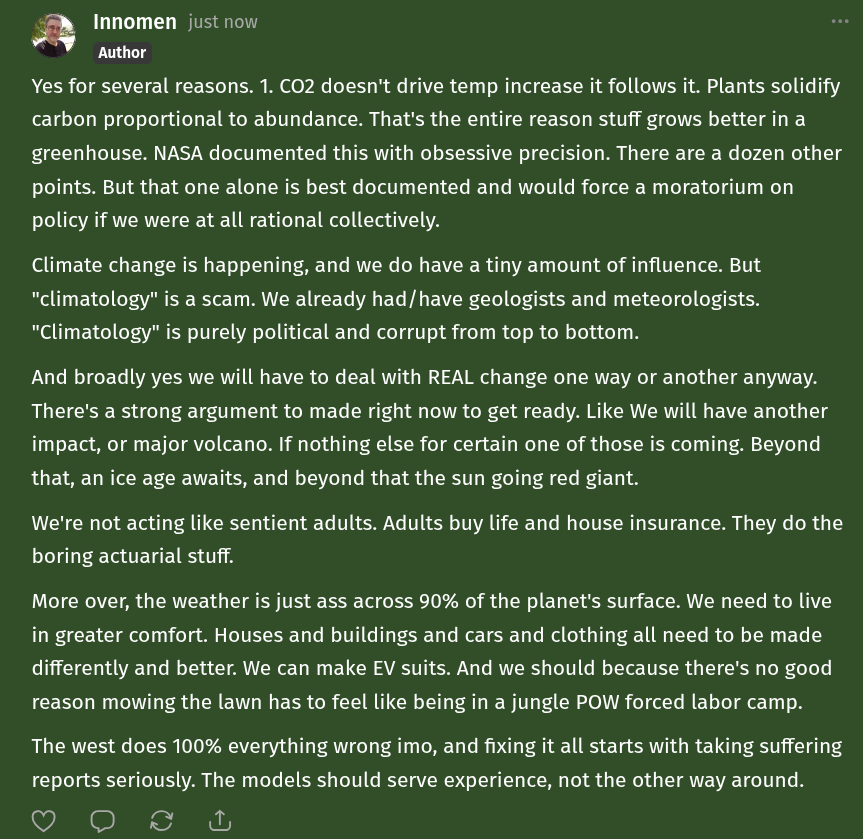
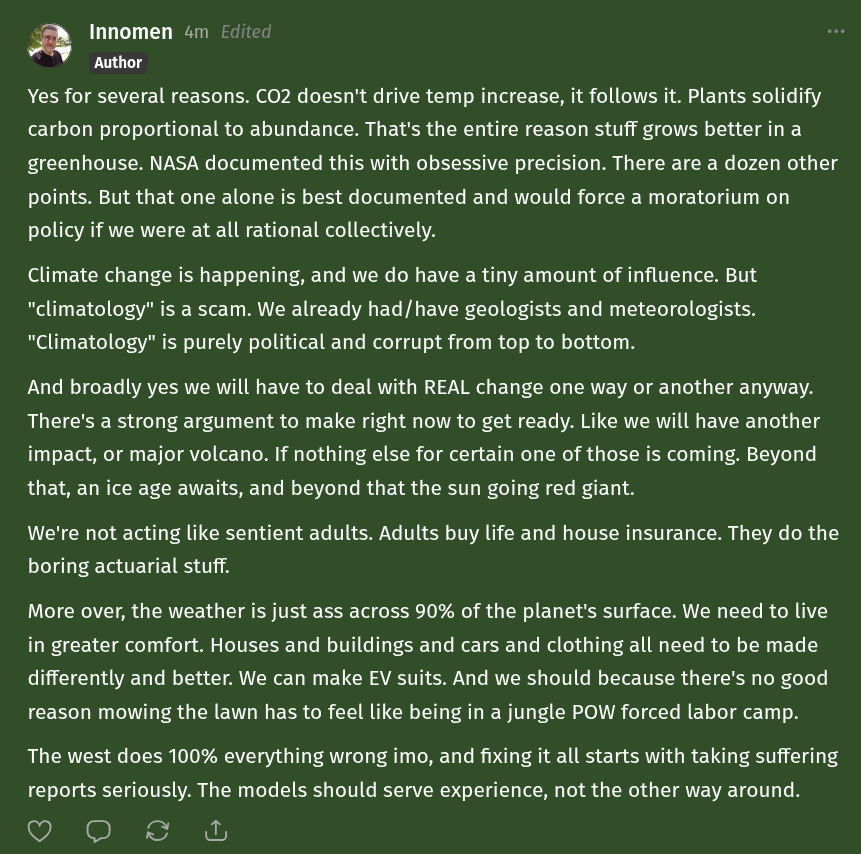
sync: 2 file change(s) 2026-11-23 09:13:28

Changed region(s): [[0.0302, 0.3099, 0.9965, 0.9917], [0.0302, 0.0, 0.9663, 0.2789]]

diff --git a/ocr/Screenshot_20261123_090906.md b/ocr/Screenshot_20261123_090906.md
@@ -1,8 +1,8 @@
 ---
 type: public-take-ocr
 source_image: "../Screenshot_20261123_090906.png"
[1 lines of base64/hex data omitted]
-captured: "2026-11-23T09:09:19-06:00"
[1 lines of base64/hex data omitted]
+captured: "2026-11-23T09:13:21-06:00"
 ocr_engine: tesseract-5
 status: machine-transcribed
 tags: [my-takes, public-take, ocr]
@@ -14,13 +14,12 @@ tags: [my-takes, public-take, ocr]
 
 ## Machine transcription
 
-‘Q Innomen just now
-
+‘Q Innomen 4m Edited
 Author
-Yes for several reasons. 1. CO2 doesn't drive temp increase it follows it. Plants solidify
+
+Yes for several reasons. CO2 doesn't drive temp increase, it follows it. Plants solidify
 carbon proportional to abundance. That's the entire reason stuff grows better in a
 greenhouse. NASA documented this with obsessive precision. There are a dozen other
-
 points. But that one alone is best documented and would force a moratorium on
 policy if we were at all rational collectively.
 
@@ -29,7 +28,7 @@ Climate change is happening, and we do have a tiny amount of influence. But
 "Climatology" is purely political and corrupt from top to bottom.
 
 And broadly yes we will have to deal with REAL change one way or another anyway.
-There's a strong argument to made right now to get ready. Like We will have another
+There's a strong argument to make right now to get ready. Like we will have another
 impact, or major volcano. If nothing else for certain one of those is coming. Beyond
 that, an ice age awaits, and beyond that the sun going red giant.
 
@@ -44,4 +43,4 @@ reason mowing the lawn has to feel like being in a jungle POW forced labor camp.
 The west does 100% everything wrong imo, and fixing it all starts with taking suffering
 reports seriously. The models should serve experience, not the other way around.
 
-O O c O
+(VR GIES AN
